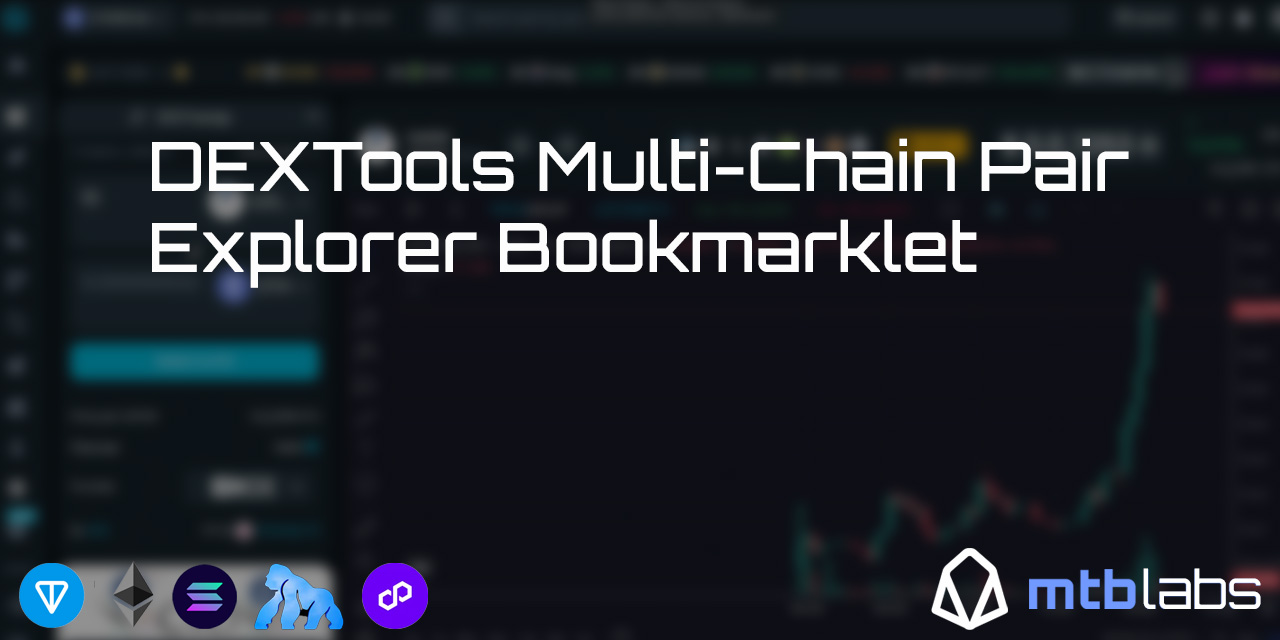
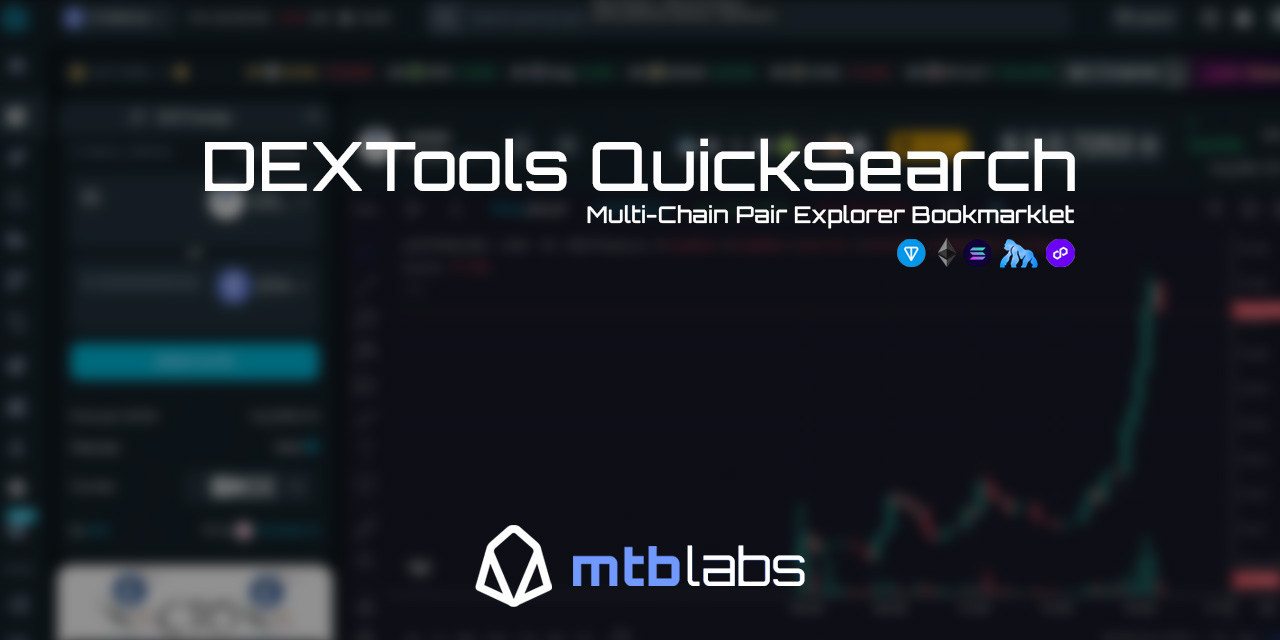
Chage to name

diff --git a/README.md b/README.md
@@ -1,6 +1,6 @@
-# DEXTools Multi-Chain Pair Explorer Bookmarklet
+# DEXTools QuickSearch
 
-![DEXTools Bookmarklet Preview](assets/head-image.jpg)
+![DEXTools QuickSearch](assets/head-image.jpg)
 
 A simple, secure bookmarklet that lets you quickly look up any token pair on DEXTools. Just click the bookmark, enter a contract address, and it automatically detects the correct blockchain.
 
@@ -42,7 +42,8 @@ javascript:void(function(){const t=prompt("Enter the contract address:");if(!t||
    - Ethereum (2)
    - Polygon (3)
 4. TON addresses (starting with either "EQ" or "UQ") are automatically detected
-5. Get redirected to DEXTools with the correct chain automatically selected
+5. Solana addresses (any other format) are automatically detected
+6. Get redirected to DEXTools with the correct chain automatically selected
 
 ## Security
 - ✅ Code is open source and can be inspected
